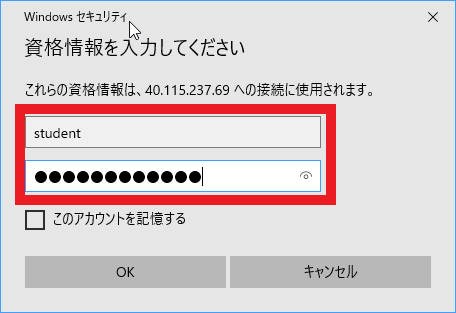
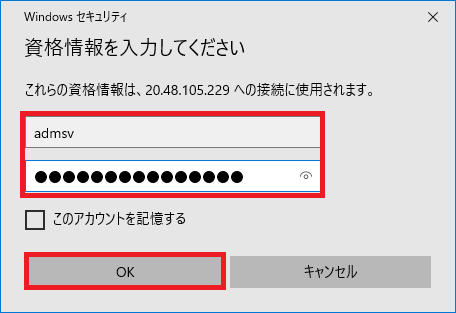
update

diff --git a/LabManual/Lab01_01_Create_Virtual_Machine.md b/LabManual/Lab01_01_Create_Virtual_Machine.md
@@ -82,12 +82,14 @@ lab:
 
 6. 「**管理者アカウント**」を入力します。
 
-     | 設定       | 値               |
-     | ---------- | ---------------- |
-     | ユーザー名 | **student**      |
-     | パスワード | **Pa55w.rd1234** |
+     | 設定       | 値                  |
+     | ---------- | ------------------- |
+     | ユーザー名 | **admsv**           |
+     | パスワード | **P@55w.rdabc1234** |
 
      ![AZ900_Lab1_06](./media/AZ900_Lab1_06.png)
+
+     
 
      
 
@@ -197,10 +199,10 @@ lab:
 
 3. ダウンロードした RDP ファイルをクリックし、Windows 認証を行いサインインしてください。
 
-   | **設定**   | **値**           |
-   | :--------- | :--------------- |
-   | ユーザー名 | **student**      |
-   | パスワード | **Pa55w.rd1234** |
+   | **設定**   | **値**              |
+   | :--------- | :------------------ |
+   | ユーザー名 | **admsv**           |
+   | パスワード | **Pa55w.rdabc1234** |
 
    ![AZ900_Lab1_18](./media/AZ900_Lab1_18.png)
 

diff --git a/LabManual/Lab01_02_Access_Virtual_Machine_Bastion.md b/LabManual/Lab01_02_Access_Virtual_Machine_Bastion.md
@@ -39,10 +39,10 @@ lab:
 
 6. ユーザー名とパスワードを入力し、「接続」を選択します。
 
-    | 設定       | 値               |
-    | ---------- | ---------------- |
-    | ユーザー名 | **student**      |
-    | パスワード | **Pa55w.rd1234** |
+    | 設定       | 値                  |
+    | ---------- | ------------------- |
+    | ユーザー名 | **admsv**           |
+    | パスワード | **P@55w.rdabc1234** |
 
     > 注：「**新しいウィンドウで開く**」にチェックを入れている場合、ポップアップブロックが発生します。 
     >
